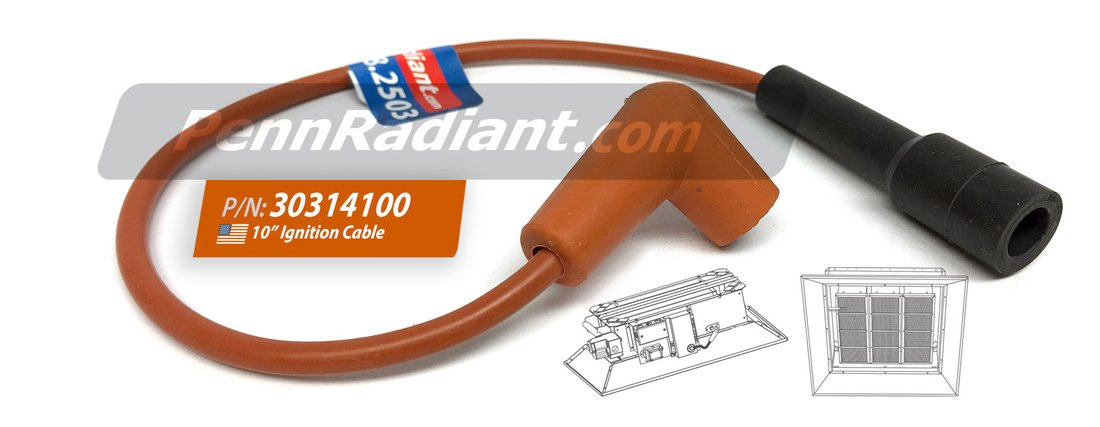
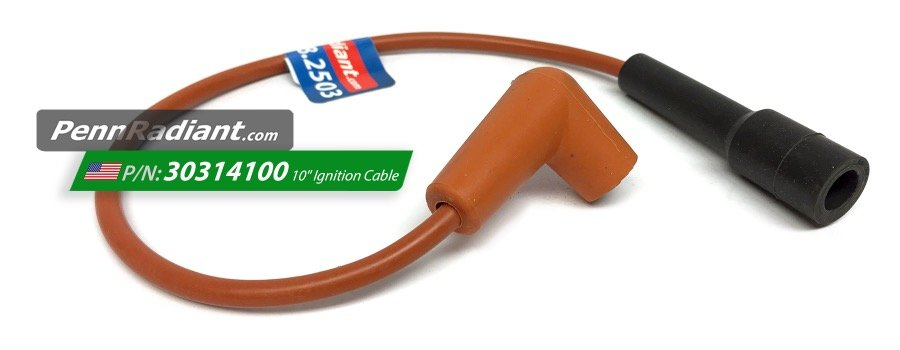
feat: add additional product image to ignition cable 30314100 gallery

Changed region(s): [[0.0311, 0.1714, 0.7467, 0.6286], [0.4978, 0.6286, 0.9022, 0.9429], [0.3733, 0.1143, 0.4044, 0.1429]]

diff --git a/project/website/sr-parts-data.js b/project/website/sr-parts-data.js
@@ -135,7 +135,7 @@ window.SR_PARTS = [
   {id:"30632030", pn:"30632030", nm:"Spark Module Fenwal #35605950-015 (Three-Try) (N5A and L5A)", cat:"ceramic", group:"Space Ray DK, SG Ceramic Heater Parts", gallery:["space-ray/parts/30632030-1.jpg"], models:[], heaterName:"Space Ray DK / SG Ceramic Heater", heaterImg:"space-ray/heaters/ceramic.jpg"},
   {id:"44010000", pn:"44010000", nm:"Spark Module Conversion Kit Honeywell to Fenwal", cat:"ceramic", group:"Space Ray DK, SG Ceramic Heater Parts", gallery:["space-ray/parts/44010000-1.jpg", "space-ray/parts/44010000-2.jpg", "space-ray/parts/44010000-3.jpg", "space-ray/parts/44010000-4.jpg"], models:[], heaterName:"Space Ray DK / SG Ceramic Heater", heaterImg:"space-ray/heaters/ceramic.jpg"},
   {id:"30295020", pn:"30295020", nm:"Electrode PSE-GF9", cat:"ceramic", group:"Space Ray DK, SG Ceramic Heater Parts", gallery:["space-ray/parts/30295020-1.jpg", "space-ray/parts/30295020-2.jpg"], models:[], heaterName:"Space Ray DK / SG Ceramic Heater", heaterImg:"space-ray/heaters/ceramic.jpg"},
-  {id:"30314100", pn:"30314100", nm:"Ignition Cable 10”", cat:"ceramic", group:"Space Ray DK, SG Ceramic Heater Parts", gallery:["space-ray/parts/30314100-1.jpg"], models:[], heaterName:"Space Ray DK / SG Ceramic Heater", heaterImg:"space-ray/heaters/ceramic.jpg"},
+  {id:"30314100", pn:"30314100", nm:"Ignition Cable 10”", cat:"ceramic", group:"Space Ray DK, SG Ceramic Heater Parts", gallery:["space-ray/parts/30314100-1.jpg", "space-ray/parts/30314100-2.jpg"], models:[], heaterName:"Space Ray DK / SG Ceramic Heater", heaterImg:"space-ray/heaters/ceramic.jpg"},
   {id:"30567079", pn:"30567079", nm:"Ignition Cable 7\"", cat:"ceramic", group:"Space Ray DK, SG Ceramic Heater Parts", gallery:["space-ray/parts/30567079-1.jpg", "space-ray/parts/30567079-2.jpg"], models:[], heaterName:"Space Ray DK / SG Ceramic Heater", heaterImg:"space-ray/heaters/ceramic.jpg"},
   {id:"43856029", pn:"43856029", nm:"Burner Head Assembly Kit", cat:"ceramic", group:"Space Ray DK, SG Ceramic Heater Parts", gallery:["space-ray/parts/43856029-1.jpg", "space-ray/parts/43856029-2.jpg", "space-ray/parts/43856029-3.jpg", "space-ray/parts/43856029-4.jpg"], models:[], heaterName:"Space Ray DK / SG Ceramic Heater", heaterImg:"space-ray/heaters/ceramic.jpg"},
   {id:"43849000", pn:"43849000", nm:"Ignition control bracket", cat:"ceramic", group:"Space Ray DK, SG Ceramic Heater Parts", gallery:["space-ray/parts/43849000-1.jpg", "space-ray/parts/43849000-2.jpg", "space-ray/parts/43849000-3.jpg", "space-ray/parts/43849000-4.jpg"], models:[], heaterName:"Space Ray DK / SG Ceramic Heater", heaterImg:"space-ray/heaters/ceramic.jpg"},
